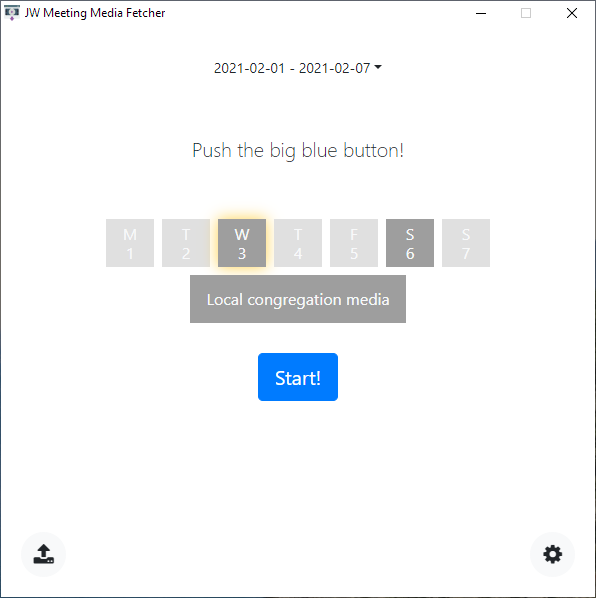
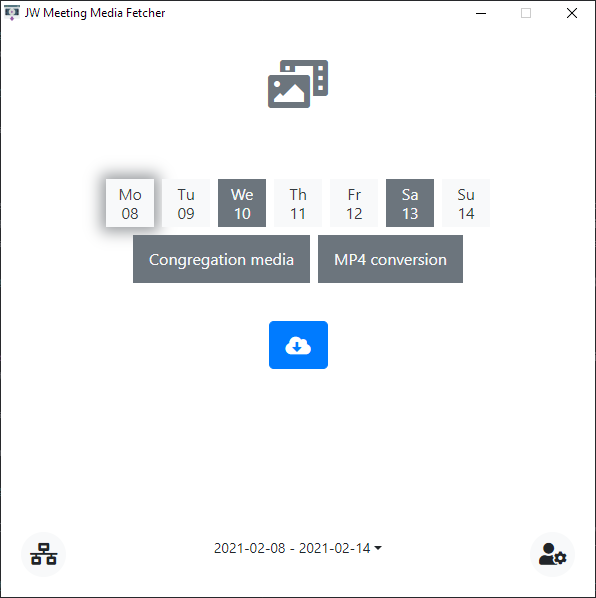
Code cleanup, SFTP worklfow improvements, screenshot and GH Pages updates

diff --git a/media-updater.js b/media-updater.js
@@ -62,7 +62,7 @@ function goAhead() {
       wt: "w"
     };
 
-  var baseDate,
+  var baseDate = dayjs().startOf("isoWeek"),
     currentWeekDates = [],
     dryrun = false,
     dryrunResults = {},
@@ -111,12 +111,6 @@ function goAhead() {
     }
   }
   getInitialData();
-  baseDate = dayjs().startOf("isoWeek");
-  $("#baseDate button, #baseDate .dropdown-item:eq(0)").html(baseDate.format("YYYY-MM-DD") + " - " + baseDate.clone().add(6, "days").format("YYYY-MM-DD")).val(baseDate.format("YYYY-MM-DD"));
-  $("#baseDate .dropdown-item:eq(0)").addClass("active");
-  for (var a = 1; a <= 4; a++) {
-    $("#baseDate .dropdown-menu").append("<button class=\"dropdown-item\" value=\"" + baseDate.clone().add(a, "week").format("YYYY-MM-DD") + "\">" + baseDate.clone().add(a, "week").format("YYYY-MM-DD") + " - " + baseDate.clone().add(a, "week").add(6, "days").format("YYYY-MM-DD") + "</button>");
-  }
   dateFormatter();
   $("#outputPath").on("click", function() {
     var path = require("electron").remote.dialog.showOpenDialogSync({
@@ -166,11 +160,14 @@ function goAhead() {
       prefs[$(this).prop("id")] = $(this).find("option:selected").val();
     }
     fs.writeFileSync(prefsFile, JSON.stringify(prefs, null, 2));
-    if ($(this).prop("id").includes("cong")) {
-      sftpSetup();
-    }
     if ($(this).prop("id").includes("lang")) {
       dateFormatter();
+    }
+    if ($(this).prop("id") == "congServer" && $(this).val() == "") {
+      $("#congServerPort, #congServerUser, #congServerPass, #congServerDir, #sftpFolderList").val("").empty().change();
+    }
+    if ($(this).prop("id").includes("cong")) {
+      sftpSetup();
     }
     setVars();
     if ($(this).prop("id").includes("cong") || $(this).prop("id") == "lang" || $(this).prop("id") == "includeTeaching" || $(this).prop("name").includes("Day")) {
@@ -635,6 +632,11 @@ function goAhead() {
     } else {
       $("#overlayPleaseWait").fadeOut();
     }
+    $("#baseDate button, #baseDate .dropdown-item:eq(0)").html(baseDate.format("YYYY-MM-DD") + " - " + baseDate.clone().add(6, "days").format("YYYY-MM-DD")).val(baseDate.format("YYYY-MM-DD"));
+    $("#baseDate .dropdown-item:eq(0)").addClass("active");
+    for (var a = 1; a <= 4; a++) {
+      $("#baseDate .dropdown-menu").append("<button class=\"dropdown-item\" value=\"" + baseDate.clone().add(a, "week").format("YYYY-MM-DD") + "\">" + baseDate.clone().add(a, "week").format("YYYY-MM-DD") + " - " + baseDate.clone().add(a, "week").add(6, "days").format("YYYY-MM-DD") + "</button>");
+    }
   }
   async function getJson(opts) {
     var jsonUrl = "";
@@ -913,7 +915,7 @@ function goAhead() {
     }
   }
   async function sftpSetup() {
-    $(".sftpHost, .sftpCreds").removeClass("valid invalid notValidYet");
+    $(".sftpHost, .sftpCreds, #congServerDir").removeClass("valid invalid notValidYet");
     $("#sftpStatus").removeClass("text-success text-warning text-danger");
     if (prefs.congServer && prefs.congServer.length > 0) {
       $("#sftpSpinner").parent().fadeTo(400, 1);
@@ -954,15 +956,10 @@ function goAhead() {
         $("#sftpStatus").removeClass("text-warning");
         $(".sftpCreds").removeClass("notValidYet");
       }
-      if (prefs.congServer && prefs.congServer.length > 0) {
-        $("#specificCong").addClass("d-flex");
-        $("#btn-upload").fadeIn();
-      } else {
-        $("#specificCong").removeClass("d-flex");
-        $("#btn-upload").fadeOut();
-      }
+      $("#specificCong").addClass("d-flex");
+      $("#btn-upload").fadeIn();
       var sftpDirIsValid = false;
-      if (prefs.congServerDir == null) {
+      if (prefs.congServerDir == null || prefs.congServerDir.length == 0) {
         $("#congServerDir").val("/").change();
       }
       if (sftpLoginSuccessful) {
@@ -995,16 +992,25 @@ function goAhead() {
         }
       }
       if ((sftpLoginSuccessful && sftpDirIsValid) || !prefs.congServer || prefs.congServer.length == 0) {
-        $("#specificCong, #btn-upload, .btn-sftp").removeClass("btn-warning bg-warning");
+        $(".btn-sftp").addClass("btn-primary").removeClass("btn-warning");
+        $("#btn-upload").addClass("btn-light").removeClass("btn-warning");
+        $("#specificCong").removeClass("bg-warning");
       }
       if (sftpLoginSuccessful && sftpDirIsValid) {
         sftpIsAGo = true;
-        $("#btn-upload").fadeTo(400, 1);
+        $("#btn-upload").fadeTo(400, 1).prop("disabled", false);
       } else {
-        $("#specificCong, #btn-upload, .btn-sftp").addClass("btn-warning bg-warning");
+        $("#btn-upload, .btn-sftp").addClass("btn-warning").removeClass("btn-dark btn-primary btn-light");
+        $("#btn-upload").prop("disabled", true);
+        $("#specificCong").addClass("bg-warning");
         sftpIsAGo = false;
       }
       $("#sftpSpinner").parent().fadeTo(400, 0);
+    } else {
+      $("#sftpFolderList").fadeTo(400, 0).empty();
+      $(".btn-sftp.btn-warning").addClass("btn-primary").removeClass("btn-warning");
+      $("#specificCong").removeClass("d-flex");
+      $("#btn-upload").fadeOut();
     }
   }
   async function sftpUpload(file, destFolder, destName) {

diff --git a/index.html b/index.html
@@ -644,7 +644,7 @@
       <ul id="sftpFolderList" class="list-unstyled m-0 file-list" style="opacity: 0;"></ul>
     </div>
     <div>
-      <button type="button" class="btn btn-dark btn-sftp"><i class="fas fa-fw fa-user-cog"></i></button>
+      <button type="button" class="btn btn-primary btn-sftp"><i class="fas fa-fw fa-user-cog"></i></button>
     </div>
   </div>
   <div id="home" class="d-flex flex-column">

diff --git a/docs/index.md b/docs/index.md
@@ -1,12 +1,40 @@
-# JW Meeting Media Fetcher
+# Welcome!
 
-Welcome! Here is a simple app that facilitates the downloading of media that will be considered during congregation meetings of Jehovah's Witnesses, to be used for example during personal study, to share using Zoom, or when using JW Library is not possible or feasible for various reasons.
+Here is a simple app that facilitates the downloading of media that will be considered during congregation meetings of Jehovah's Witnesses, to be used for example during personal study, to share using Zoom, or when using JW Library is not possible or feasible for various reasons.
 
 ![Main screen of app](https://github.com/sircharlo/jw-meeting-media-fetcher/blob/master/screenshots/01-main.png?raw=true)
 
-## Prerequisites
+## Installation and usage
 
-The app should run as is on most modern computers running Windows, Linux, or Mac. 
+Simply download the latest [installer](https://github.com/sircharlo/jw-meeting-media-fetcher/releases/latest) and run it. Once the setup is complete, a shortcut to the app will be placed on your desktop. Open the app, and configure the settings as you please.
+
+![Settings screen of app](https://github.com/sircharlo/jw-meeting-media-fetcher/blob/master/screenshots/02-settings.png?raw=true)
+
+Once you execute the media sync, all downloaded media will be placed in the folder of your choosing.
+
+## Using with Zoom
+
+Of note is the setting to convert all images to MP4 files (**Settings > Enable beta MP4 generation**), which will allow for both pictures and videos to be shared using the native Zoom MP4 sharing feature (new as of February 1st, 2021). This is much easier and results in better quality for the meeting participants than simply sharing your local monitor or your media playback app's window through Zoom's screen sharing feature.
+
+![Zoom Video share feature](https://github.com/sircharlo/jw-meeting-media-fetcher/blob/master/screenshots/05-zoom.png?raw=true)
+
+## Congregation media syncing
+
+The brother designated as _videoconference organizer_ by the body of elders can use **JWMMF** to manage what media will be available to the person taking care of media for a given meeting. For example, he can:
+
+- upload additional media to be shared for a meeting (such as for the circuit overseer's visit, or for public speakers' talks)
+- hide media that for one reason or another is not relevant for a given meeting
+- make recurring media available, to be shared at every meeting (such as a yeartext video, or an announcement slide)
+
+![Upload screen of app](https://github.com/sircharlo/jw-meeting-media-fetcher/blob/master/screenshots/03-upload.png?raw=true)
+
+Usage of these features is entirely optional, and requires a connection to an SFTP server. All users from a congregation that wish to be syncronized should connect to the same SFTP server and directory using the **Settings > Local congregation SFTP server** screen.
+
+![Upload settings screen of app](https://github.com/sircharlo/jw-meeting-media-fetcher/blob/master/screenshots/04-upload-settings.png?raw=true)
+
+## App usage notes
+
+The app should run as is on most modern computers running Windows, Linux, or Mac.
 
 ### Windows
 
@@ -31,35 +59,6 @@ Before you do this, make sure you read up on what this change entails, for examp
 ### Mac
 
 For various technical reasons, the auto-updater does not yet work on Macs. Mac users will have to periodically check for updates to this app and install them on their own.
-
-## Installation and usage
-
-Simply download the latest [installer](https://github.com/sircharlo/jw-meeting-media-fetcher/releases/latest) and run it. Once the setup is complete, a shortcut to the app will be placed on your desktop. Open the app, and configure the settings as you please. 
-
-![Settings screen of app](https://github.com/sircharlo/jw-meeting-media-fetcher/blob/master/screenshots/02-settings.png?raw=true)
-
-Once you execute the media sync, all downloaded media will be placed in the folder of your choosing.
-
-## Using with Zoom
-
-Of note is the setting to convert all images to MP4 files (**Settings > Enable beta MP4 generation**), which will allow for both pictures and videos to be shared using the native Zoom MP4 sharing feature (new as of February 1st, 2021). This is much easier and results in better quality for the meeting participants than simply sharing your local monitor or your media playback app's window through Zoom's screen sharing feature. 
-
-![Zoom Video share feature](https://github.com/sircharlo/jw-meeting-media-fetcher/blob/master/screenshots/05-zoom.png?raw=true)
-
-
-## Congregation media syncing
-
-The brother designated as _videoconference organizer_ by the body of elders can use **JWMMF** to manage what media will be available to the person taking care of media for a given meeting. For example, he can:
-
-- upload additional media to be shared for a meeting (such as for the circuit overseer's visit, or for public speakers' talks)
-- hide media that for one reason or another is not relevant for a given meeting
-- make recurring media available, to be shared at every meeting (such as a yeartext video, or an announcement slide)
-
-![Upload screen of app](https://github.com/sircharlo/jw-meeting-media-fetcher/blob/master/screenshots/03-upload.png?raw=true)
-
-Usage of these features is entirely optional, and requires a connection to an SFTP server. All users from a congregation that wish to be syncronized should connect to the same SFTP server and directory using the **Settings > Local congregation SFTP server** screen.
-
-![Upload settings screen of app](https://github.com/sircharlo/jw-meeting-media-fetcher/blob/master/screenshots/04-upload-settings.png?raw=true)
 
 ## Does this app infringe the JW.org Terms of Use?
 
